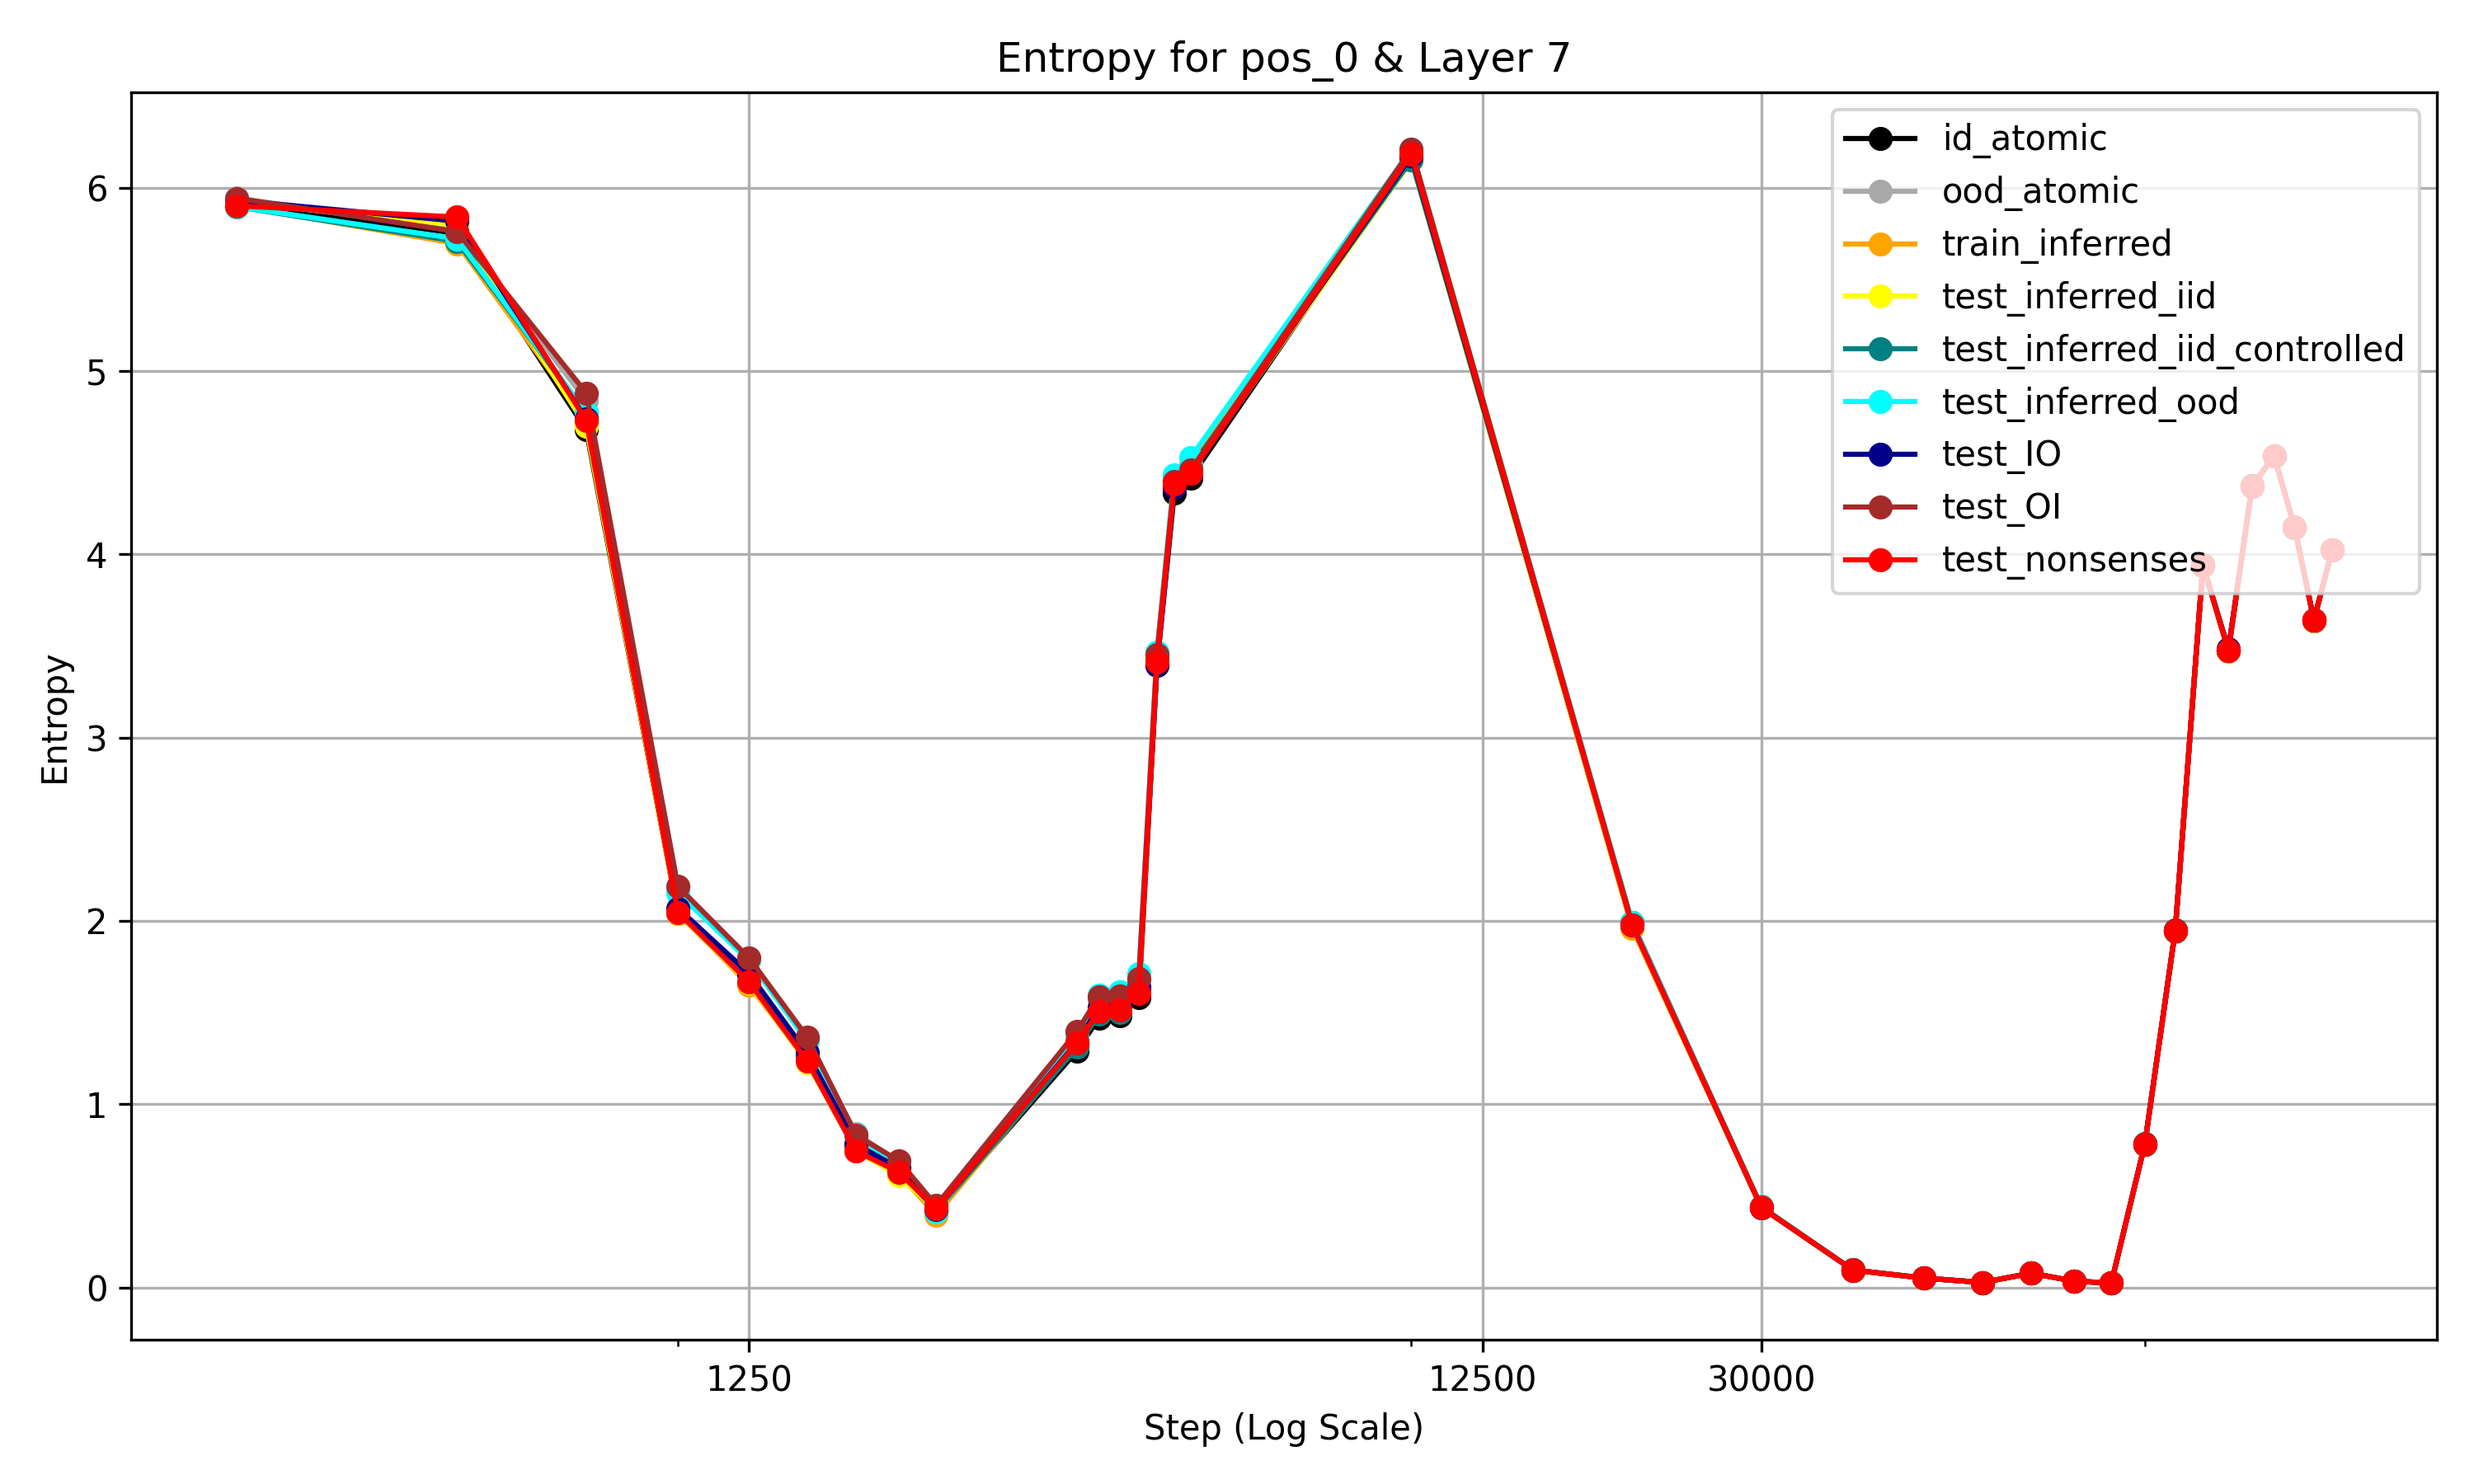
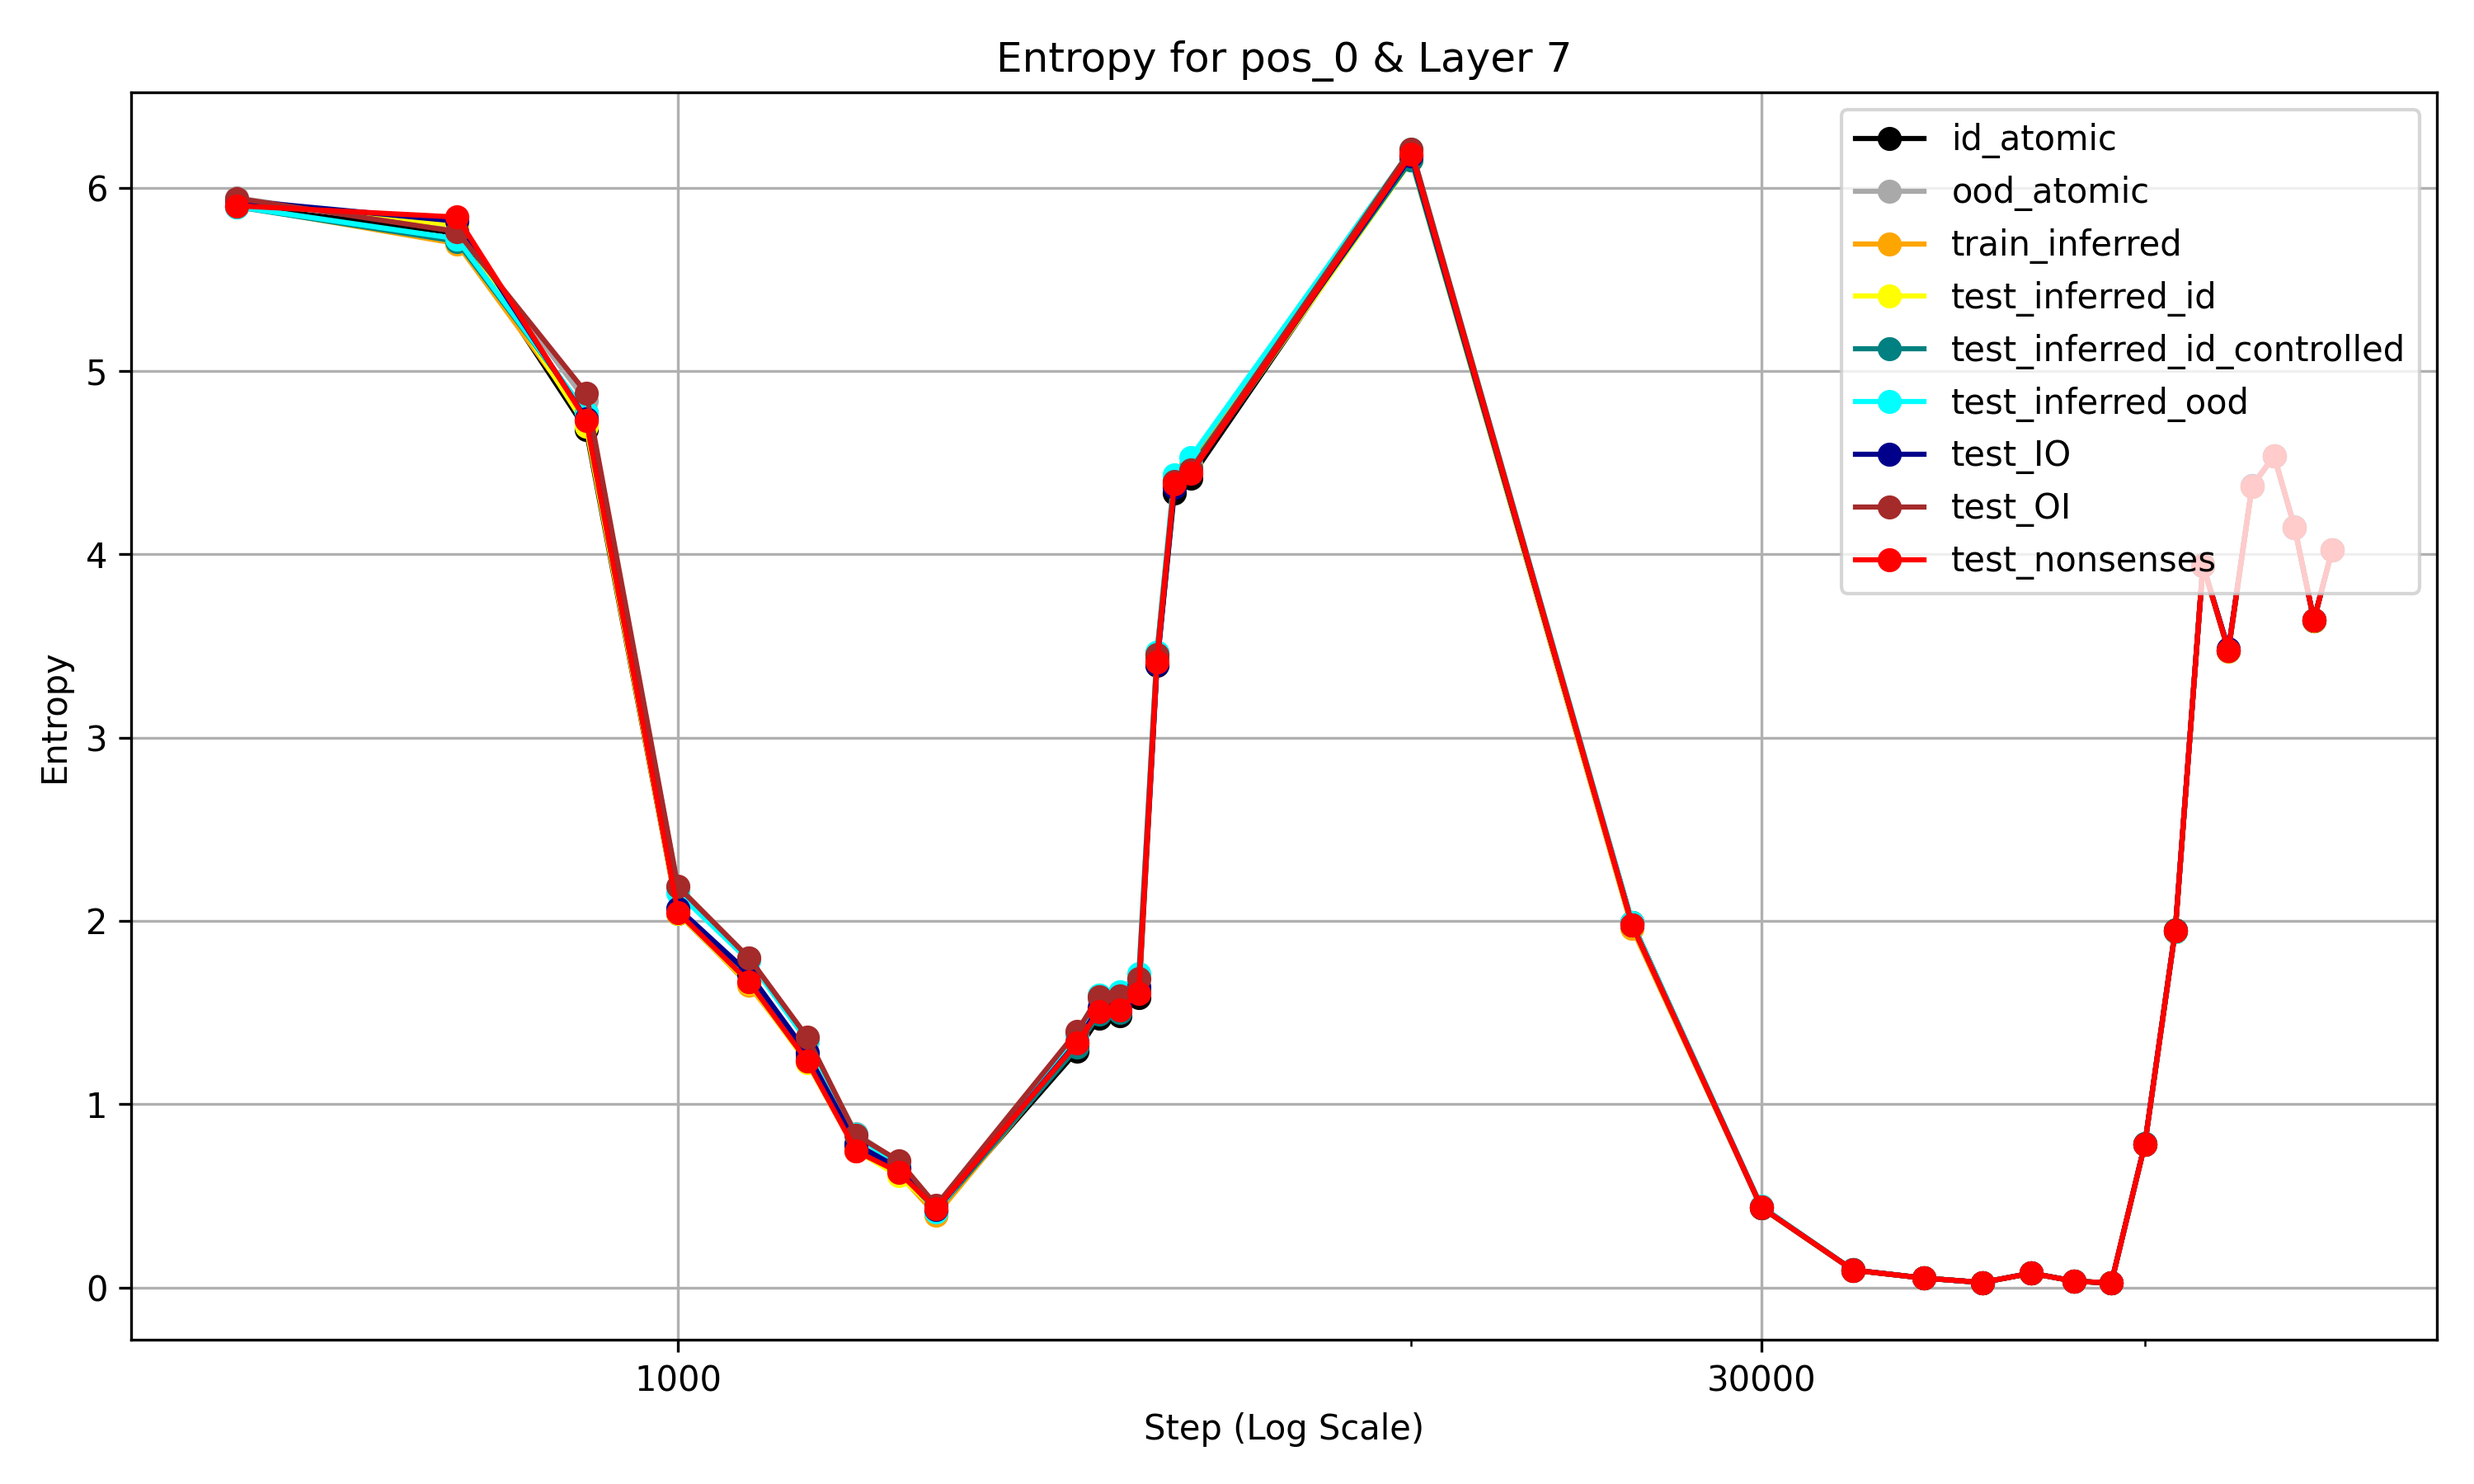
Fix: MRR for position 2 & target token

Changed region(s): [[0.744, 0.0622, 0.93, 0.4044], [0.248, 0.9022, 0.31, 0.9333], [0.589, 0.9022, 0.62, 0.9333]]

diff --git a/visualize/visualize_causal_strength_n_mmr.py b/visualize/visualize_causal_strength_n_mmr.py
@@ -13,7 +13,7 @@ def visualize_mmr(mean_reciprocal_rank, args):
     # checkpoint_steps = [int(k.split("-")[-1]) for k in mean_reciprocal_rank.keys()]
     # checkpoint_steps.sort()
 
-    labels = ["b_rank_pos1", "r2_rank_pos2"]
+    labels = ["b_rank_pos1", "r2_rank_pos2", "t_rank_pos2"]
 
     for label in labels:
         data = {}
@@ -32,7 +32,7 @@ def visualize_mmr(mean_reciprocal_rank, args):
         
         # Set x-axis to log scale and customize ticks
         plt.xscale("log")
-        xticks = [int(args.step_list[0]), int(args.step_list[-1])]
+        xticks = [int(args.step_list[0]), int(args.step_list[-2])]
         plt.xticks(xticks, labels=[f"{int(tick)}" for tick in xticks])
 
         # Adding labels, title, and legend
@@ -45,7 +45,6 @@ def visualize_mmr(mean_reciprocal_rank, args):
         # Save the plot
         os.makedirs(os.path.join(os.path.dirname(args.json_path), os.path.splitext(os.path.basename(args.json_path))[0]), exist_ok=True)
         plt.savefig(os.path.join(os.path.dirname(args.json_path), os.path.splitext(os.path.basename(args.json_path))[0], f"MMR_{label.replace('_', '-')}.png"), dpi=300, bbox_inches='tight')
-        # plt.savefig(os.path.join(args.model_dir, "accuracy.png"), format="png", dpi=300)
     
 
 def visualize_causal_strength(causal_strength, checkpoint_name, args):
@@ -198,7 +197,7 @@ def visualize_causal_strength_n_mmr(args):
         causal_strength_step = all_checkpoints
     else:
         min_checkpoint_step = f"checkpoint-{args.step_list[0]}"
-        max_checkpoint_step = f"checkpoint-{args.step_list[-1]}"
+        max_checkpoint_step = f"checkpoint-{args.step_list[-2]}"
         causal_strength_step = [f"checkpoint-{step}" for step in args.step_list]
     
     min_checkpoint_causal_strength = None
@@ -217,7 +216,7 @@ def visualize_causal_strength_n_mmr(args):
                 continue
             # This keys only used in MMR not in Causal Strength
             if ((args.task == "composition" 
-                 and any((k in key for k in ["b_rank_pos1", "r2_rank_pos2"])))
+                 and any((k in key for k in ["b_rank_pos1", "r2_rank_pos2", "t_rank_pos2"])))
             or (args.task == "comparison" 
                 and any(k in key for k in ["val1_rank_pos2", "val2_rank_pos4", "label0_rank_pos0", 
                                            "label1_rank_pos0", "label2_rank_pos0"]))
@@ -230,8 +229,8 @@ def visualize_causal_strength_n_mmr(args):
                 causal_strength[key] = 0
             
         if args.task == "composition":
-            all_keys = ["b_rank_pos1_", "r2_rank_pos2_", "h_", "r1_", "r2_"]
-            causal_strength_keys = all_keys[2:]
+            all_keys = ["b_rank_pos1_", "r2_rank_pos2_", "t_rank_pos2_", "h_", "r1_", "r2_"]
+            causal_strength_keys = all_keys[3:]
         elif args.task == "comparison":
             all_keys = ["val1_rank_pos2_", "val2_rank_pos4_", "label0_rank_pos0_", 
                         "label1_rank_pos0_", "label2_rank_pos0_", "e1_", "e2_", "a_"]

diff --git a/visualize/visualize_layer_entropy.py b/visualize/visualize_layer_entropy.py
@@ -10,9 +10,6 @@ import matplotlib.pyplot as plt
 
 def calculate_entropy(logits):
     
-    # Only calculate tail entity's logit
-    # logits = logits[:,-1,:]
-    
     probabilities = F.softmax(logits, dim=-1)
     
     # Calculate entropy
@@ -46,7 +43,6 @@ def main(args):
         
     all_checkpoints = [checkpoint for checkpoint in os.listdir(args.model_dir) if checkpoint.startswith("checkpoint")]
     all_checkpoints.sort(key=lambda var: int(var.split("-")[1]))
-    # all_checkpoints = all_checkpoints[-3:]
     print(all_checkpoints)
     
     device = torch.device('cuda:1')
@@ -137,9 +133,10 @@ def main(args):
 
             # Set x-axis to log scale and customize ticks
             plt.xscale('symlog')
-            plt.xticks([1250, 12500, 30000], labels=[f"{int(tick)}" for tick in [1250, 12500, 30000]])
+            xticks = [int(args.step_list[0]), int(args.step_list[-2])]
+            plt.xticks(xticks, labels=[f"{int(tick)}" for tick in xticks])
+            # plt.xticks([1250, 12500, 30000], labels=[f"{int(tick)}" for tick in [1250, 12500, 30000]])
             
-
             # Labeling the plot
             plt.title(f"Entropy for {pos} & Layer {layer_ind}")
             plt.xlabel("Step (Log Scale)")
@@ -157,6 +154,7 @@ if __name__=="__main__":
     
     parser = argparse.ArgumentParser()
     parser.add_argument("--model_dir", default=None, type=str, help="parent directory of saved model checkpoints")
+    parser.add_argument("--step_list", default=None, nargs="+", help="checkpoint's steps to check causal strength")
     parser.add_argument("--num_layer", default=8, type=int, help="number of layer of the model")
     
     args = parser.parse_args()

diff --git a/visualize/visualize_attention_map.py b/visualize/visualize_attention_map.py
@@ -129,7 +129,7 @@ def main(args):
     assert all(os.path.isdir(os.path.join(args.model_dir, checkpoint)) for checkpoint in all_checkpoints)
     all_checkpoints.sort(key=lambda var: int(var.split("-")[1]))
     
-    device = "cuda:0"
+    device = torch.device('cuda:0')
 
     for checkpoint in all_checkpoints:
         model_path = os.path.join(args.model_dir, checkpoint)
